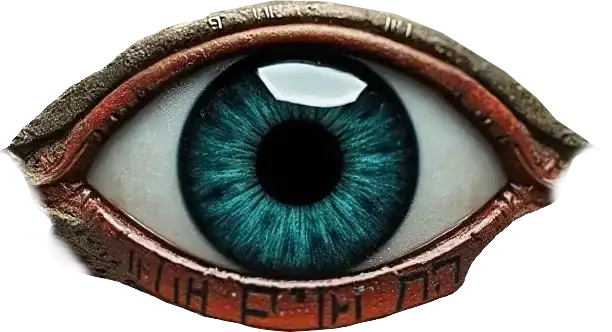
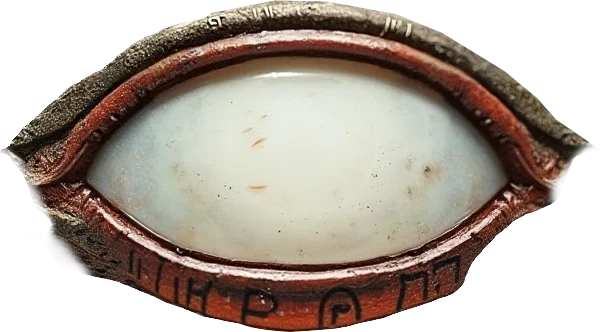
Animated tesseract eye

diff --git a/src/library_tesseract_ocr.cc b/src/library_tesseract_ocr.cc
@@ -23,6 +23,7 @@
 #include "action.hh"
 #include "animation.hh"
 #include "argument.hh"
+#include "automat.hh"
 #include "color.hh"
 #include "connector_optical.hh"
 #include "embedded.hh"
@@ -31,12 +32,15 @@
 #include "image_provider.hh"
 #include "log.hh"
 #include "str.hh"
+#include "svg.hh"
 #include "textures.hh"
 #include "time.hh"
 
 using namespace std;
 
 namespace automat::library {
+
+constexpr bool kDebugEyeShape = false;
 
 struct ImageArgument : LiveArgument {
   TextDrawable icon;
@@ -53,14 +57,6 @@ struct ImageArgument : LiveArgument {
     style = Style::Invisible;
   }
   PaintDrawable& Icon() override { return icon; }
-  void ConnectionAdded(Location& here, Connection& connection) override {
-    LOG << "ImageArgument::ConnectionAdded";
-    LiveArgument::ConnectionAdded(here, connection);
-  }
-  void ConnectionRemoved(Location& here, Connection& connection) override {
-    LOG << "ImageArgument::ConnectionRemoved";
-    LiveArgument::ConnectionRemoved(here, connection);
-  }
 };
 
 struct TextArgument : Argument {
@@ -116,6 +112,8 @@ struct TesseractWidget : Object::FallbackWidget, gui::PointerMoveCallback {
   Vec2 drag_start_pos;
   float drag_start_x_min, drag_start_x_max, drag_start_y_min, drag_start_y_max;
   Rect region_rect;
+  Optional<Vec2> iris_target;  // Where the eye is pointing (machine coords)
+  animation::SpringV2<Vec2> iris_dir;
   std::string ocr_text;
   Optional<gui::Pointer::IconOverride> icon_override;
   animation::SpringV2<float> aspect_ratio = 1.618f;
@@ -219,6 +217,18 @@ struct TesseractWidget : Object::FallbackWidget, gui::PointerMoveCallback {
     return image;
   }
 
+  static PersistentImage& IrisImage() {
+    static auto image =
+        PersistentImage::MakeFromAsset(embedded::assets_ocr_iris_webp, {.width = kSize / 14});
+    return image;
+  }
+
+  static constexpr char kEyeShapeSVG[] =
+      "M-13.6025.7-12.1917-1.6769-9.2847-4.259-6.0956-5.8322-2.0343-6.7556 2.5143-6.5504 "
+      "4.9339-6.0203 7.3365-5.2166 8.8584-3.994 10.9103-2.0104 12.1074-.326 12.5263.871 10.9531 "
+      "2.3929 9.8245 3.2222 7.6101 4.6757 5.3956 5.4623 3.5744 5.8813 1.2659 6.0694-2.5645 "
+      "6.001-4.5481 5.7701-7.3867 5.1033-9.3703 4.0431-11.5847 2.4955-13.0382 1.2985-13.3888.9308Z";
+
   static PersistentImage& BoxImage() {
     static auto image =
         PersistentImage::MakeFromAsset(embedded::assets_ocr_box_webp, {.width = 1287});
@@ -269,6 +279,8 @@ struct TesseractWidget : Object::FallbackWidget, gui::PointerMoveCallback {
     }
   }
 
+  void TransformUpdated() override { WakeAnimation(); }
+
   animation::Phase Tick(time::Timer& timer) override {
     auto phase = animation::Finished;
     // Copy source image from connected image provider
@@ -292,18 +304,30 @@ struct TesseractWidget : Object::FallbackWidget, gui::PointerMoveCallback {
       region_rect.top = tesseract->y_max_ratio;
       ocr_text = tesseract->ocr_text;
       float target_aspect_ratio = 1.618f;
+      iris_target.reset();
       {  // Update `source_image`
         sk_sp<SkImage> new_image = nullptr;
         if (auto here_ptr = tesseract->here.lock()) {
-          auto image_obj = image_arg.FindObject(*here_ptr, {});
+          auto image_loc = image_arg.FindLocation(*here_ptr, {});
+          auto image_obj = image_loc ? image_loc->object.get() : nullptr;
           if (image_obj) {
             auto image_provider = image_obj->AsImageProvider();
             if (image_provider) {
               new_image = image_provider->GetImage();
+              iris_target = image_loc->position;
             }
+          }
+
+          if (status_progress_ratio.has_value()) {
+            iris_target = here_ptr->position;
           }
         }
         source_image = std::move(new_image);
+      }
+
+      if (pointers.size() > 0) {
+        auto pointer_pos = pointers.front()->PositionWithin(*root_machine);
+        iris_target = pointer_pos;
       }
 
       if (source_image) {  // Update `aspect_ratio`
@@ -351,6 +375,26 @@ struct TesseractWidget : Object::FallbackWidget, gui::PointerMoveCallback {
       points[Right, Bottom, Front, Inner] = inner_front.BottomRightCorner();
       points[Left, Top, Front, Inner] = inner_front.TopLeftCorner();
       points[Right, Top, Front, Inner] = inner_front.TopRightCorner();
+
+      {  // animate iris
+        Vec2 eye_delta;
+        if (iris_target.has_value()) {
+          auto matrix = TransformBetween(*root_machine, *this);
+          eye_delta = matrix.mapPoint(iris_target->sk) - Vec2(0, outer_front.top + 0.5_mm);
+        } else {
+          eye_delta = Vec2(0, 0);
+        }
+
+        auto eye_dir = Normalize(eye_delta);
+        float z = 2_cm;
+        auto eye_dist_3d = Length(Vec3(eye_delta.x, eye_delta.y, z));
+        auto eye_dist_2d = Length(eye_delta);
+
+        float dist = eye_dist_2d / eye_dist_3d;
+
+        Vec2 iris_dir_target = Vec2(eye_dir.x * dist, eye_dir.y * dist);
+        phase |= iris_dir.SineTowards(iris_dir_target, timer.d, 0.1);
+      }
     }
     return phase;
   }
@@ -677,11 +721,58 @@ struct TesseractWidget : Object::FallbackWidget, gui::PointerMoveCallback {
     border_image.draw(canvas);
     canvas.restore();
 
+    SkPath eye_path = PathFromSVG(kEyeShapeSVG);
+    eye_path.transform(SkMatrix::Translate(0, outer_rect.top + 0.5_mm));
+
     auto& eye_image = EyeImage();
     canvas.save();
+    eye_path.toggleInverseFillType();
+    canvas.clipPath(eye_path);
+    eye_path.toggleInverseFillType();
     canvas.translate(-eye_image.width() / 2, -eye_image.height() / 2 + outer_rect.top + 0.5_mm);
     eye_image.draw(canvas);
     canvas.restore();
+
+    auto& iris_image = IrisImage();
+    {
+      canvas.save();
+      canvas.clipPath(eye_path);
+      canvas.drawColor(SK_ColorWHITE);
+      canvas.translate(0, outer_rect.top + 0.5_mm);
+      {
+        canvas.save();
+
+        Vec2 iris_pos = iris_dir.value * Vec2(2_mm, 1_mm);
+
+        float degrees = atan(iris_pos) * 180 / M_PI;
+        canvas.translate(iris_pos.x, iris_pos.y);
+        float squeeze_3d = 1 - Length(iris_dir) / 4;
+        canvas.rotate(degrees);
+        canvas.scale(squeeze_3d, 1);
+        canvas.rotate(-degrees);
+
+        canvas.translate(-iris_image.width() / 2, -iris_image.height() / 2);
+        iris_image.draw(canvas);
+        canvas.restore();
+      }
+      {
+        canvas.save();
+        canvas.translate(-eye_image.width() / 2, -eye_image.height() / 2);
+        SkPaint paint = eye_image.paint;
+        paint.setBlendMode(SkBlendMode::kModulate);
+        Rect rect = Rect(0, 0, eye_image.width(), eye_image.height());
+        canvas.drawRect(rect, paint);
+        canvas.restore();
+      }
+      canvas.restore();
+    }
+
+    if constexpr (kDebugEyeShape) {
+      SkPaint eye_paint;
+      eye_paint.setStyle(SkPaint::kStroke_Style);
+      eye_paint.setColor("#ff0000"_color);
+      canvas.drawPath(eye_path, eye_paint);
+    }
 
     if (laser_alpha > 0.0f) {
       SkPath path;
@@ -775,6 +866,7 @@ struct TesseractWidget : Object::FallbackWidget, gui::PointerMoveCallback {
       // Update icon override with new cursor
       icon_override.emplace(pointer, GetCursorForMode(hover_mode));
     }
+    WakeAnimation();
   }
 
   // Forward declaration for drag action
